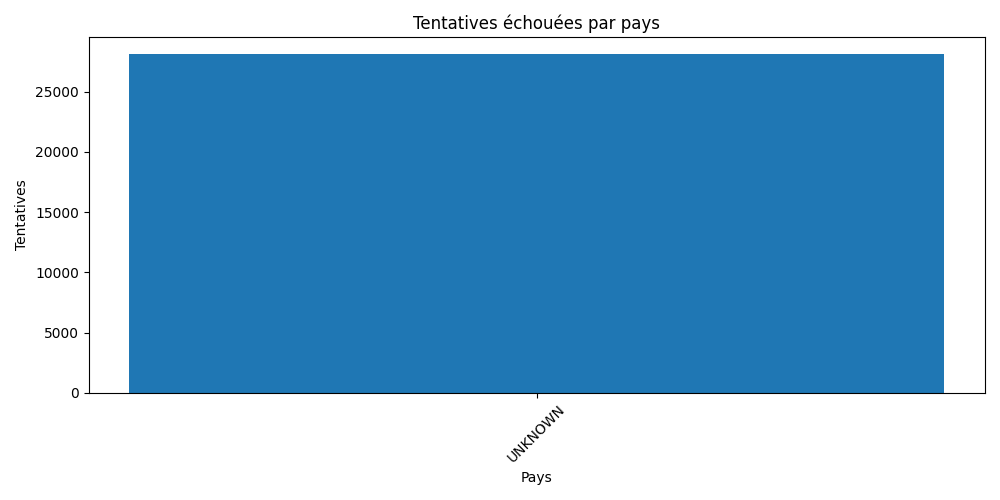
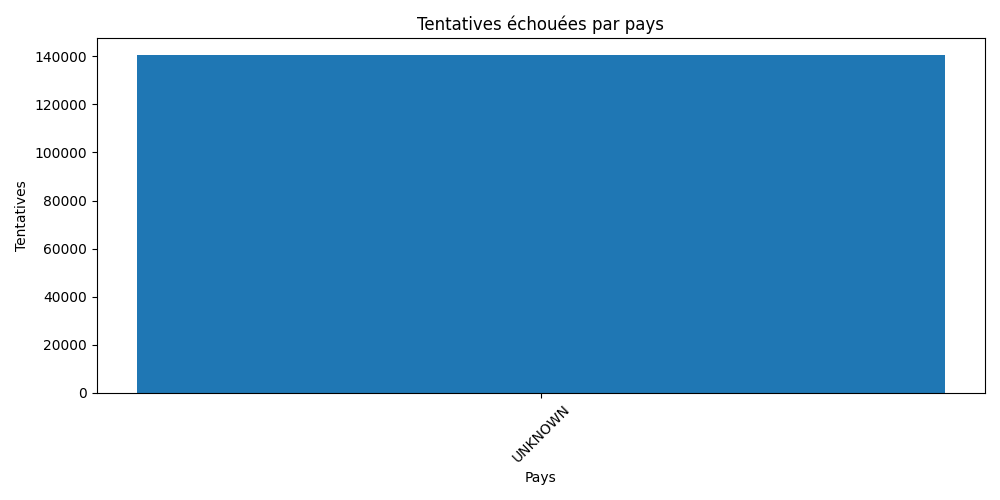
correction dash

diff --git a/dashboard/index.html b/dashboard/index.html
@@ -1,0 +1,65 @@
+<!doctype html>
+<html lang="fr">
+<head>
+  <meta charset="utf-8">
+  <meta name="viewport" content="width=device-width, initial-scale=1">
+  <title>Log Analyser | Dashboard</title>
+  <style>
+    :root { --bg:#f4f7fb; --ink:#172033; --muted:#6b7280; --card:#fff;
+      --blue:#2563eb; --red:#dc2626; --green:#059669; --orange:#ea580c; }
+    * { box-sizing:border-box; }
+    body { margin:0; background:var(--bg); color:var(--ink);
+      font:15px -apple-system,BlinkMacSystemFont,"Segoe UI",sans-serif; }
+    header { background:linear-gradient(120deg,#172554,#2563eb); color:white;
+      padding:34px max(24px,calc((100% - 1180px)/2)); }
+    header h1 { margin:0 0 8px; font-size:30px; }
+    header p { margin:0; opacity:.82; }
+    main { max-width:1180px; margin:28px auto; padding:0 24px; }
+    .cards { display:grid; grid-template-columns:repeat(3,1fr); gap:18px; }
+    .card,.panel { background:var(--card); border-radius:14px; padding:22px;
+      box-shadow:0 5px 18px #17255412; }
+    .card { border-left:5px solid var(--blue); }
+    .card.red { border-color:var(--red); } .card.green { border-color:var(--green); }
+    .card.orange { border-color:var(--orange); }
+    .label { color:var(--muted); font-size:13px; text-transform:uppercase;
+      letter-spacing:.06em; } .value { margin-top:8px; font-size:32px; font-weight:700; }
+    .grid { display:grid; grid-template-columns:repeat(2,1fr); gap:18px; margin-top:18px; }
+    .panel h2 { margin:0 0 15px; font-size:19px; }
+    .chart { width:100%; border-radius:8px; background:#fafafa; }
+    table { width:100%; border-collapse:collapse; }
+    th,td { padding:11px 8px; text-align:left; border-bottom:1px solid #e8edf5; }
+    th:last-child,td:last-child { text-align:right; } th { color:var(--muted); font-size:12px;
+      text-transform:uppercase; } .empty { text-align:center!important; color:var(--muted); }
+    footer { color:var(--muted); text-align:center; padding:20px; font-size:13px; }
+    @media(max-width:760px) { .cards,.grid { grid-template-columns:1fr; } main { padding:0 14px; } }
+  </style>
+</head>
+<body>
+  <header><h1>Log Analyser</h1><p>Dashboard de surveillance des authentifications SSH</p></header>
+  <main>
+    <section class="cards">
+      <div class="card red"><div class="label">Tentatives échouées</div><div class="value">140,660</div></div>
+      <div class="card green"><div class="label">Connexions réussies</div><div class="value">10</div></div>
+      <div class="card orange"><div class="label">Utilisateurs invalides</div><div class="value">31,040</div></div>
+    </section>
+    <section class="grid">
+      <article class="panel"><h2>Échecs par pays</h2>
+        <img class="chart" src="failed_attempts_by_country.png" alt="Échecs par pays">
+        <table><thead><tr><th>Pays</th><th>Nombre</th></tr></thead>
+          <tbody><tr><td>UNKNOWN</td><td>140,660</td></tr></tbody></table>
+      </article>
+      <article class="panel"><h2>Connexions réussies par utilisateur</h2>
+        <img class="chart" src="successful_attempts_by_user.png" alt="Connexions réussies">
+        <table><thead><tr><th>Utilisateur</th><th>Nombre</th></tr></thead>
+          <tbody><tr><td>adminesisa</td><td>10</td></tr></tbody></table>
+      </article>
+      <article class="panel"><h2>Utilisateurs invalides</h2>
+        <img class="chart" src="failed_invalid_users_by_user.png" alt="Utilisateurs invalides">
+        <table><thead><tr><th>Utilisateur</th><th>Nombre</th></tr></thead>
+          <tbody><tr><td>admin</td><td>4,070</td></tr><tr><td>esisa</td><td>1,930</td></tr><tr><td>ubuntu</td><td>1,440</td></tr><tr><td>user</td><td>1,090</td></tr><tr><td>test</td><td>820</td></tr><tr><td>support</td><td>750</td></tr><tr><td>dev</td><td>700</td></tr><tr><td>solana</td><td>680</td></tr><tr><td>orangepi</td><td>600</td></tr><tr><td>ubnt</td><td>410</td></tr><tr><td>sol</td><td>390</td></tr><tr><td>postgres</td><td>380</td></tr><tr><td>AdminGPON</td><td>330</td></tr><tr><td>cloud</td><td>310</td></tr><tr><td>claude</td><td>240</td></tr><tr><td>oracle</td><td>230</td></tr><tr><td>ftpuser</td><td>200</td></tr><tr><td>user1</td><td>200</td></tr><tr><td>debian</td><td>190</td></tr><tr><td>deploy</td><td>190</td></tr><tr><td>git</td><td>150</td></tr><tr><td>guest</td><td>140</td></tr><tr><td>server</td><td>130</td></tr><tr><td>curl</td><td>120</td></tr><tr><td>systemd</td><td>120</td></tr><tr><td>testuser</td><td>120</td></tr><tr><td>solv</td><td>120</td></tr><tr><td>pi</td><td>110</td></tr><tr><td>sysadmin</td><td>110</td></tr><tr><td>bitcoind</td><td>110</td></tr><tr><td>linux</td><td>100</td></tr><tr><td>squid</td><td>100</td></tr><tr><td>administrator</td><td>90</td></tr><tr><td>zabbix</td><td>90</td></tr><tr><td>developer</td><td>90</td></tr><tr><td>odoo</td><td>90</td></tr><tr><td>pakchoi</td><td>80</td></tr><tr><td>steam</td><td>80</td></tr><tr><td>deployer</td><td>80</td></tr><tr><td>dbus-helper</td><td>80</td></tr><tr><td>newuser</td><td>80</td></tr><tr><td>walrus</td><td>70</td></tr><tr><td>tester</td><td>70</td></tr><tr><td>temp</td><td>70</td></tr><tr><td>ec2-user</td><td>60</td></tr><tr><td>runner</td><td>60</td></tr><tr><td>minecraft</td><td>60</td></tr><tr><td>config</td><td>60</td></tr><tr><td>ayjtnzjc</td><td>60</td></tr><tr><td>installer</td><td>60</td></tr><tr><td>demo</td><td>60</td></tr><tr><td>NL5xUDpV2xRa</td><td>60</td></tr><tr><td>a</td><td>60</td></tr><tr><td>system</td><td>60</td></tr><tr><td>es</td><td>60</td></tr><tr><td>zhxnephu</td><td>50</td></tr><tr><td>myuser</td><td>50</td></tr><tr><td>sammy</td><td>50</td></tr><tr><td>test1</td><td>50</td></tr><tr><td>telecomadmin</td><td>50</td></tr><tr><td>web</td><td>50</td></tr><tr><td>smbuser</td><td>50</td></tr><tr><td>alex</td><td>50</td></tr><tr><td>miner</td><td>50</td></tr><tr><td>admin1</td><td>50</td></tr><tr><td>ali</td><td>50</td></tr><tr><td>panel</td><td>50</td></tr><tr><td>trader</td><td>50</td></tr><tr><td>jenkins</td><td>50</td></tr><tr><td>ansible</td><td>50</td></tr><tr><td>root1</td><td>40</td></tr><tr><td>mcserver</td><td>40</td></tr><tr><td>ts3server</td><td>40</td></tr><tr><td>jack</td><td>40</td></tr><tr><td>long</td><td>40</td></tr><tr><td>userroot</td><td>40</td></tr><tr><td>app</td><td>40</td></tr><tr><td>teamspeak</td><td>40</td></tr><tr><td>node</td><td>40</td></tr><tr><td>udev-monitor</td><td>40</td></tr><tr><td>test_user</td><td>40</td></tr><tr><td>work</td><td>40</td></tr><tr><td>gitlab-runner</td><td>40</td></tr><tr><td>vpnuser</td><td>40</td></tr><tr><td>ftptest</td><td>40</td></tr><tr><td>devops</td><td>40</td></tr><tr><td>teste</td><td>40</td></tr><tr><td>student</td><td>40</td></tr><tr><td>james</td><td>40</td></tr><tr><td>jflhi5za</td><td>40</td></tr><tr><td>user01</td><td>40</td></tr><tr><td>valera</td><td>40</td></tr><tr><td>super</td><td>40</td></tr><tr><td>filezilla</td><td>40</td></tr><tr><td>ftp</td><td>40</td></tr><tr><td>noc</td><td>30</td></tr><tr><td>ts3</td><td>30</td></tr><tr><td>sftptest</td><td>30</td></tr><tr><td>bruno</td><td>30</td></tr><tr><td>k8s</td><td>30</td></tr><tr><td>zhangsan</td><td>30</td></tr><tr><td>vpn</td><td>30</td></tr><tr><td>1234</td><td>30</td></tr><tr><td>mahesh</td><td>30</td></tr><tr><td>kamran</td><td>30</td></tr><tr><td>rahul</td><td>30</td></tr><tr><td>crypto</td><td>30</td></tr><tr><td>admin123</td><td>30</td></tr><tr><td>nil</td><td>30</td></tr><tr><td>home</td><td>30</td></tr><tr><td>mk</td><td>30</td></tr><tr><td>tom</td><td>30</td></tr><tr><td>blockchain</td><td>30</td></tr><tr><td>info</td><td>30</td></tr><tr><td>nexus</td><td>30</td></tr><tr><td>magento</td><td>30</td></tr><tr><td>web3</td><td>30</td></tr><tr><td>webadmin</td><td>30</td></tr><tr><td>trading</td><td>30</td></tr><tr><td>test2</td><td>30</td></tr><tr><td>username</td><td>30</td></tr><tr><td>chris</td><td>30</td></tr><tr><td>aaa</td><td>30</td></tr><tr><td>peter</td><td>30</td></tr><tr><td>weblogic</td><td>30</td></tr><tr><td>tan</td><td>30</td></tr><tr><td>roman</td><td>30</td></tr><tr><td>ai</td><td>30</td></tr><tr><td>infra</td><td>30</td></tr><tr><td>jarservice</td><td>30</td></tr><tr><td>frappe</td><td>30</td></tr><tr><td>wireguard</td><td>30</td></tr><tr><td>bitrix</td><td>30</td></tr><tr><td>ba02</td><td>30</td></tr><tr><td>tomcat</td><td>30</td></tr><tr><td>vncuser</td><td>30</td></tr><tr><td>amir</td><td>30</td></tr><tr><td>oscar</td><td>30</td></tr><tr><td>centos</td><td>30</td></tr><tr><td>hafiz</td><td>30</td></tr><tr><td>emo</td><td>30</td></tr><tr><td>kafka</td><td>30</td></tr><tr><td>yang</td><td>30</td></tr><tr><td>wqmarlduiqkmgs</td><td>30</td></tr><tr><td>webdev</td><td>30</td></tr><tr><td>pierre</td><td>30</td></tr><tr><td>gitlab</td><td>20</td></tr><tr><td>marcus</td><td>20</td></tr><tr><td>cisco</td><td>20</td></tr><tr><td>customer</td><td>20</td></tr><tr><td>user0</td><td>20</td></tr><tr><td>jhlee</td><td>20</td></tr><tr><td>satoshi</td><td>20</td></tr><tr><td>...</td><td>20</td></tr><tr><td>devuser</td><td>20</td></tr><tr><td>santana</td><td>20</td></tr><tr><td>modify</td><td>20</td></tr><tr><td>cent</td><td>20</td></tr><tr><td>xh</td><td>20</td></tr><tr><td>richard</td><td>20</td></tr><tr><td>sftpuser</td><td>20</td></tr><tr><td>furukawa</td><td>20</td></tr><tr><td>titu</td><td>20</td></tr><tr><td>bank</td><td>20</td></tr><tr><td>systemd-sync</td><td>20</td></tr><tr><td>dragon</td><td>20</td></tr><tr><td>local</td><td>20</td></tr><tr><td>ba50</td><td>20</td></tr><tr><td>mini</td><td>20</td></tr><tr><td>ahmad</td><td>20</td></tr><tr><td>danny</td><td>20</td></tr><tr><td>testuser1</td><td>20</td></tr><tr><td>ardi</td><td>20</td></tr><tr><td>aroot</td><td>20</td></tr><tr><td>bob</td><td>20</td></tr><tr><td>marina</td><td>20</td></tr><tr><td>mario</td><td>20</td></tr><tr><td>xxx</td><td>20</td></tr><tr><td>vyos</td><td>20</td></tr><tr><td>azureuser</td><td>20</td></tr><tr><td>hb</td><td>20</td></tr><tr><td>wallet</td><td>20</td></tr><tr><td>wiki</td><td>20</td></tr><tr><td>seed</td><td>20</td></tr><tr><td>m</td><td>20</td></tr><tr><td>radio</td><td>20</td></tr><tr><td>vpsuser</td><td>20</td></tr><tr><td>arif</td><td>20</td></tr><tr><td>hugo</td><td>20</td></tr><tr><td>aoki</td><td>20</td></tr><tr><td>tester1</td><td>20</td></tr><tr><td>gts</td><td>20</td></tr><tr><td>mohit</td><td>20</td></tr><tr><td>socks</td><td>20</td></tr><tr><td>david</td><td>20</td></tr><tr><td>test123</td><td>20</td></tr><tr><td>httpd</td><td>20</td></tr><tr><td>hash</td><td>20</td></tr><tr><td>ak</td><td>20</td></tr><tr><td>hoster</td><td>20</td></tr><tr><td>qbtuser</td><td>20</td></tr><tr><td>opc</td><td>20</td></tr><tr><td>veera</td><td>20</td></tr><tr><td>RPM</td><td>20</td></tr><tr><td>sergey</td><td>20</td></tr><tr><td>user5</td><td>20</td></tr><tr><td>ba32</td><td>20</td></tr><tr><td>lwq1</td><td>20</td></tr><tr><td>token</td><td>20</td></tr><tr><td>dell</td><td>20</td></tr><tr><td>astra</td><td>20</td></tr><tr><td>basic</td><td>20</td></tr><tr><td>rsync</td><td>20</td></tr><tr><td>pavel</td><td>20</td></tr><tr><td>dsmdmadm</td><td>20</td></tr><tr><td>django</td><td>20</td></tr><tr><td>erpnext</td><td>20</td></tr><tr><td>4hfrt6</td><td>20</td></tr><tr><td>tempuser</td><td>20</td></tr><tr><td>devtest</td><td>20</td></tr><tr><td>USER</td><td>20</td></tr><tr><td>kevin</td><td>20</td></tr><tr><td>eth</td><td>20</td></tr><tr><td>nas</td><td>20</td></tr><tr><td>arun</td><td>20</td></tr><tr><td>dima</td><td>20</td></tr><tr><td>defi</td><td>20</td></tr><tr><td>slurm</td><td>20</td></tr><tr><td>ivan</td><td>20</td></tr><tr><td>mc</td><td>20</td></tr><tr><td>apache</td><td>20</td></tr><tr><td>term1</td><td>20</td></tr><tr><td>jules</td><td>20</td></tr><tr><td>toro</td><td>20</td></tr><tr><td>alexis</td><td>20</td></tr><tr><td>nginx</td><td>20</td></tr><tr><td>akshay</td><td>20</td></tr><tr><td>telecomroot</td><td>20</td></tr><tr><td>ahmed</td><td>20</td></tr><tr><td>bitcoin</td><td>20</td></tr><tr><td>ba45</td><td>20</td></tr><tr><td>zhihu</td><td>20</td></tr><tr><td>userftp</td><td>20</td></tr><tr><td>abdullah</td><td>20</td></tr><tr><td>amit</td><td>20</td></tr><tr><td>runcloud</td><td>20</td></tr><tr><td>mohsen</td><td>20</td></tr><tr><td>george</td><td>20</td></tr><tr><td>john</td><td>20</td></tr><tr><td>intell</td><td>20</td></tr><tr><td>one</td><td>20</td></tr><tr><td>max</td><td>20</td></tr><tr><td>zeeshan</td><td>20</td></tr><tr><td>usuario1</td><td>20</td></tr><tr><td>readonly</td><td>20</td></tr><tr><td>gpadmin</td><td>20</td></tr><tr><td>intel</td><td>20</td></tr><tr><td>paco</td><td>20</td></tr><tr><td>online</td><td>20</td></tr><tr><td>usuario</td><td>20</td></tr><tr><td>steve</td><td>20</td></tr><tr><td>ironman</td><td>20</td></tr><tr><td>hyh</td><td>20</td></tr><tr><td>nikolay</td><td>20</td></tr><tr><td>clawd</td><td>20</td></tr><tr><td>db2inst1</td><td>20</td></tr><tr><td>aiuser</td><td>20</td></tr><tr><td>validator</td><td>20</td></tr><tr><td>mike</td><td>20</td></tr><tr><td>mas</td><td>20</td></tr><tr><td>andy</td><td>20</td></tr><tr><td>arkserver</td><td>20</td></tr><tr><td>user10</td><td>20</td></tr><tr><td>astro</td><td>20</td></tr><tr><td>solr</td><td>20</td></tr><tr><td>ethereum</td><td>20</td></tr><tr><td>zhang</td><td>20</td></tr><tr><td>erpuser</td><td>20</td></tr><tr><td>User</td><td>20</td></tr><tr><td>operator</td><td>20</td></tr><tr><td>socksuser</td><td>20</td></tr><tr><td>andre</td><td>20</td></tr><tr><td>khan</td><td>20</td></tr><tr><td>vhserver</td><td>20</td></tr><tr><td>public</td><td>20</td></tr><tr><td>vbox</td><td>20</td></tr><tr><td>manoj</td><td>20</td></tr><tr><td>hadoop</td><td>20</td></tr><tr><td>www</td><td>20</td></tr><tr><td>ericadmin</td><td>10</td></tr><tr><td>operador</td><td>10</td></tr><tr><td>kocom</td><td>10</td></tr><tr><td>appuser</td><td>10</td></tr><tr><td>trinity</td><td>10</td></tr><tr><td>wan</td><td>10</td></tr><tr><td>jake</td><td>10</td></tr><tr><td>pqrxi</td><td>10</td></tr><tr><td>foundry</td><td>10</td></tr><tr><td>app1</td><td>10</td></tr><tr><td>websphere</td><td>10</td></tr><tr><td>vanessa</td><td>10</td></tr><tr><td>zte</td><td>10</td></tr><tr><td>usuario2</td><td>10</td></tr><tr><td>marcel</td><td>10</td></tr><tr><td>hari</td><td>10</td></tr><tr><td>leon</td><td>10</td></tr><tr><td>turtle</td><td>10</td></tr><tr><td>ba11</td><td>10</td></tr><tr><td>ecs</td><td>10</td></tr><tr><td>monitor</td><td>10</td></tr><tr><td>hputu</td><td>10</td></tr><tr><td>staging</td><td>10</td></tr><tr><td>olivier</td><td>10</td></tr><tr><td>uftp</td><td>10</td></tr><tr><td>ripple</td><td>10</td></tr><tr><td>dan</td><td>10</td></tr><tr><td>upload</td><td>10</td></tr><tr><td>kwang</td><td>10</td></tr><tr><td>onkar</td><td>10</td></tr><tr><td>karim</td><td>10</td></tr><tr><td>swapna</td><td>10</td></tr><tr><td>steamcmd</td><td>10</td></tr><tr><td>terrariaserver</td><td>10</td></tr><tr><td>rolando</td><td>10</td></tr><tr><td>ruslan</td><td>10</td></tr><tr><td>kali</td><td>10</td></tr><tr><td>jira</td><td>10</td></tr><tr><td>xzpag</td><td>10</td></tr><tr><td>nb</td><td>10</td></tr><tr><td>neo4j</td><td>10</td></tr><tr><td>sistema</td><td>10</td></tr><tr><td>tauro</td><td>10</td></tr><tr><td>tab</td><td>10</td></tr><tr><td>cdac</td><td>10</td></tr><tr><td>Yue_joe@streamyx</td><td>10</td></tr><tr><td>kanban</td><td>10</td></tr><tr><td>admin7</td><td>10</td></tr><tr><td>hh</td><td>10</td></tr><tr><td>caja</td><td>10</td></tr><tr><td>khalil</td><td>10</td></tr><tr><td>andrea</td><td>10</td></tr><tr><td>activemq</td><td>10</td></tr><tr><td>usertest</td><td>10</td></tr><tr><td>oxidized</td><td>10</td></tr><tr><td>gaoyx</td><td>10</td></tr><tr><td>elsearch</td><td>10</td></tr><tr><td>dustin</td><td>10</td></tr><tr><td>ilya</td><td>10</td></tr><tr><td>zhangyj</td><td>10</td></tr><tr><td>lycotu</td><td>10</td></tr><tr><td>ben</td><td>10</td></tr><tr><td>adminer</td><td>10</td></tr><tr><td>patrick</td><td>10</td></tr><tr><td>shabnam</td><td>10</td></tr><tr><td>harish</td><td>10</td></tr><tr><td>shared</td><td>10</td></tr><tr><td>akash</td><td>10</td></tr><tr><td>rajesh</td><td>10</td></tr><tr><td>jinkyu</td><td>10</td></tr><tr><td>mj</td><td>10</td></tr><tr><td>stperez</td><td>10</td></tr><tr><td>jerimiah</td><td>10</td></tr><tr><td>zc</td><td>10</td></tr><tr><td>liferay</td><td>10</td></tr><tr><td>nehat</td><td>10</td></tr><tr><td>sato</td><td>10</td></tr><tr><td>ken</td><td>10</td></tr><tr><td>msf</td><td>10</td></tr><tr><td>ediuser</td><td>10</td></tr><tr><td>anastacia</td><td>10</td></tr><tr><td>javier</td><td>10</td></tr><tr><td>apple</td><td>10</td></tr><tr><td>solar</td><td>10</td></tr><tr><td>ming</td><td>10</td></tr><tr><td>backdoor</td><td>10</td></tr><tr><td>hwkbi</td><td>10</td></tr><tr><td>automation</td><td>10</td></tr><tr><td>email</td><td>10</td></tr><tr><td>radix</td><td>10</td></tr><tr><td>PlcmSpIp</td><td>10</td></tr><tr><td>eren</td><td>10</td></tr><tr><td>headscale</td><td>10</td></tr><tr><td>adam</td><td>10</td></tr><tr><td>testftp</td><td>10</td></tr><tr><td>curntlysignatt</td><td>10</td></tr><tr><td>uwsgi</td><td>10</td></tr><tr><td>allinone</td><td>10</td></tr><tr><td>bryan</td><td>10</td></tr><tr><td>ulimk</td><td>10</td></tr><tr><td>sitecom</td><td>10</td></tr><tr><td>abhi</td><td>10</td></tr><tr><td>aryan</td><td>10</td></tr><tr><td>sora</td><td>10</td></tr><tr><td>guest1</td><td>10</td></tr><tr><td>ba25</td><td>10</td></tr><tr><td>dockeruser</td><td>10</td></tr><tr><td>zhao</td><td>10</td></tr><tr><td>assistant</td><td>10</td></tr><tr><td>tidb</td><td>10</td></tr><tr><td>vintagestory</td><td>10</td></tr><tr><td>sameer</td><td>10</td></tr><tr><td>zihan</td><td>10</td></tr><tr><td>farhan</td><td>10</td></tr><tr><td>mongod</td><td>10</td></tr><tr><td>excel</td><td>10</td></tr><tr><td>fabian</td><td>10</td></tr><tr><td>tickwsuser</td><td>10</td></tr><tr><td>erin</td><td>10</td></tr><tr><td>mcuser</td><td>10</td></tr><tr><td>sachin</td><td>10</td></tr><tr><td>bak</td><td>10</td></tr><tr><td>anya</td><td>10</td></tr><tr><td>lisa</td><td>10</td></tr><tr><td>cam</td><td>10</td></tr><tr><td>timemachine</td><td>10</td></tr><tr><td>titan</td><td>10</td></tr><tr><td>systems</td><td>10</td></tr><tr><td>diego</td><td>10</td></tr><tr><td>openwrt</td><td>10</td></tr><tr><td>felix</td><td>10</td></tr><tr><td>gas</td><td>10</td></tr><tr><td>t128</td><td>10</td></tr><tr><td>scheduler</td><td>10</td></tr><tr><td>rizhi</td><td>10</td></tr><tr><td>serwis</td><td>10</td></tr><tr><td>Ubuntu</td><td>10</td></tr><tr><td>karan</td><td>10</td></tr><tr><td>UBUNTU</td><td>10</td></tr><tr><td>aysha</td><td>10</td></tr><tr><td>bitnami</td><td>10</td></tr><tr><td>oper</td><td>10</td></tr><tr><td>it</td><td>10</td></tr><tr><td>tv</td><td>10</td></tr><tr><td>newadmin</td><td>10</td></tr><tr><td>suzhou</td><td>10</td></tr><tr><td>dmdba</td><td>10</td></tr><tr><td>gabriel</td><td>10</td></tr><tr><td>traccar</td><td>10</td></tr><tr><td>anas</td><td>10</td></tr><tr><td>lc</td><td>10</td></tr><tr><td>seekcy</td><td>10</td></tr><tr><td>hdfs</td><td>10</td></tr><tr><td>reports</td><td>10</td></tr><tr><td>harsh</td><td>10</td></tr><tr><td>cuser</td><td>10</td></tr><tr><td>fabio</td><td>10</td></tr><tr><td>odoo12</td><td>10</td></tr><tr><td>alicia</td><td>10</td></tr><tr><td>shyam</td><td>10</td></tr><tr><td>download</td><td>10</td></tr><tr><td>nokia</td><td>10</td></tr><tr><td>helen</td><td>10</td></tr><tr><td>factorio</td><td>10</td></tr><tr><td>symbat</td><td>10</td></tr><tr><td>liu</td><td>10</td></tr><tr><td>postfixtester</td><td>10</td></tr><tr><td>12345</td><td>10</td></tr><tr><td>edubook</td><td>10</td></tr><tr><td>sroot</td><td>10</td></tr><tr><td>x</td><td>10</td></tr><tr><td>ddd</td><td>10</td></tr><tr><td>weather</td><td>10</td></tr><tr><td>arpwatch</td><td>10</td></tr><tr><td>shalini</td><td>10</td></tr><tr><td>ram</td><td>10</td></tr><tr><td>melsac</td><td>10</td></tr><tr><td>lys</td><td>10</td></tr><tr><td>raul</td><td>10</td></tr><tr><td>devadmin</td><td>10</td></tr><tr><td>hpc</td><td>10</td></tr><tr><td>laura</td><td>10</td></tr><tr><td>yash</td><td>10</td></tr><tr><td>ewscz</td><td>10</td></tr><tr><td>allegra</td><td>10</td></tr><tr><td>filip</td><td>10</td></tr><tr><td>aman</td><td>10</td></tr><tr><td>zoom</td><td>10</td></tr><tr><td>jongbhak</td><td>10</td></tr><tr><td>1</td><td>10</td></tr><tr><td>ti</td><td>10</td></tr><tr><td>jcon0r73</td><td>10</td></tr><tr><td>dai</td><td>10</td></tr><tr><td>apps</td><td>10</td></tr><tr><td>cesar</td><td>10</td></tr><tr><td>csgo</td><td>10</td></tr><tr><td>sandbox</td><td>10</td></tr><tr><td>tsserver</td><td>10</td></tr><tr><td>kollin</td><td>10</td></tr><tr><td>apollo</td><td>10</td></tr><tr><td>jeff</td><td>10</td></tr><tr><td>jean</td><td>10</td></tr><tr><td>ts</td><td>10</td></tr><tr><td>igqdf</td><td>10</td></tr><tr><td>MikroTikSystem</td><td>10</td></tr><tr><td>rf</td><td>10</td></tr><tr><td>aws-user</td><td>10</td></tr><tr><td>sk</td><td>10</td></tr><tr><td>2wire</td><td>10</td></tr><tr><td>pzuser</td><td>10</td></tr><tr><td>traefik</td><td>10</td></tr><tr><td>omar</td><td>10</td></tr><tr><td>dlinares</td><td>10</td></tr><tr><td>api</td><td>10</td></tr><tr><td>stserver</td><td>10</td></tr><tr><td>open</td><td>10</td></tr><tr><td>marco</td><td>10</td></tr><tr><td>clouduser</td><td>10</td></tr><tr><td>anil</td><td>10</td></tr><tr><td>arnieandmarge</td><td>10</td></tr><tr><td>wialon</td><td>10</td></tr><tr><td>nikita</td><td>10</td></tr><tr><td>abhishek</td><td>10</td></tr><tr><td>oo</td><td>10</td></tr><tr><td>es_user</td><td>10</td></tr><tr><td>opsadmin</td><td>10</td></tr><tr><td>elemental</td><td>10</td></tr><tr><td>notes</td><td>10</td></tr><tr><td>dockeradmin</td><td>10</td></tr><tr><td>newusername</td><td>10</td></tr><tr><td>vyatta</td><td>10</td></tr><tr><td>leidyroa</td><td>10</td></tr><tr><td>fjdgu</td><td>10</td></tr><tr><td>west</td><td>10</td></tr><tr><td>anthony</td><td>10</td></tr><tr><td>webuser</td><td>10</td></tr><tr><td>as</td><td>10</td></tr><tr><td>oliver</td><td>10</td></tr><tr><td>code</td><td>10</td></tr><tr><td>oem</td><td>10</td></tr><tr><td>castle</td><td>10</td></tr><tr><td>cds</td><td>10</td></tr><tr><td>bogdan</td><td>10</td></tr><tr><td>going</td><td>10</td></tr><tr><td>ricky</td><td>10</td></tr><tr><td>dark</td><td>10</td></tr><tr><td>jihad</td><td>10</td></tr><tr><td>auto</td><td>10</td></tr><tr><td>wdfkl</td><td>10</td></tr><tr><td>deluge</td><td>10</td></tr><tr><td>fran</td><td>10</td></tr><tr><td>tmp</td><td>10</td></tr><tr><td>ci</td><td>10</td></tr><tr><td>builder</td><td>10</td></tr><tr><td>common</td><td>10</td></tr><tr><td>ttt</td><td>10</td></tr><tr><td>reza</td><td>10</td></tr><tr><td>dms</td><td>10</td></tr><tr><td>hsadmin</td><td>10</td></tr><tr><td>ansadmin</td><td>10</td></tr><tr><td>tfj</td><td>10</td></tr><tr><td>monitoring</td><td>10</td></tr><tr><td>sysadm</td><td>10</td></tr><tr><td>1111</td><td>10</td></tr><tr><td>amy</td><td>10</td></tr><tr><td>mika</td><td>10</td></tr><tr><td>npadmin</td><td>10</td></tr><tr><td>lucas</td><td>10</td></tr><tr><td>eduardo</td><td>10</td></tr><tr><td>monica</td><td>10</td></tr><tr><td>term2</td><td>10</td></tr><tr><td>pipi</td><td>10</td></tr><tr><td>student1</td><td>10</td></tr><tr><td>quinlan</td><td>10</td></tr><tr><td>sarah</td><td>10</td></tr><tr><td>tt</td><td>10</td></tr><tr><td>raspberry</td><td>10</td></tr><tr><td>nisuser</td><td>10</td></tr><tr><td>wwwtest</td><td>10</td></tr><tr><td>alpha</td><td>10</td></tr><tr><td>diradmin</td><td>10</td></tr><tr><td>ossuser</td><td>10</td></tr><tr><td>maha</td><td>10</td></tr><tr><td>edu</td><td>10</td></tr><tr><td>uno85c</td><td>10</td></tr><tr><td>lab</td><td>10</td></tr><tr><td>ba16</td><td>10</td></tr><tr><td>budda</td><td>10</td></tr><tr><td>thomas</td><td>10</td></tr><tr><td>ansibleuser</td><td>10</td></tr><tr><td>sagar</td><td>10</td></tr><tr><td>uno50</td><td>10</td></tr><tr><td>smart</td><td>10</td></tr><tr><td>webmaster</td><td>10</td></tr><tr><td>odoo18</td><td>10</td></tr><tr><td>gf</td><td>10</td></tr><tr><td>pulse</td><td>10</td></tr><tr><td>junyong</td><td>10</td></tr><tr><td>huangwei</td><td>10</td></tr><tr><td>deployuser</td><td>10</td></tr><tr><td>username1</td><td>10</td></tr><tr><td>qazwsxedc</td><td>10</td></tr><tr><td>extern</td><td>10</td></tr><tr><td>fastuser</td><td>10</td></tr><tr><td>tb</td><td>10</td></tr><tr><td>lx</td><td>10</td></tr><tr><td>bang</td><td>10</td></tr><tr><td>love</td><td>10</td></tr><tr><td>satisfactory</td><td>10</td></tr><tr><td>beehive</td><td>10</td></tr><tr><td>jin</td><td>10</td></tr><tr><td>inwi</td><td>10</td></tr><tr><td>mailtest</td><td>10</td></tr><tr><td>ociistst</td><td>10</td></tr><tr><td>elasticsearch</td><td>10</td></tr><tr><td>stetson</td><td>10</td></tr><tr><td>master</td><td>10</td></tr><tr><td>naresh</td><td>10</td></tr><tr><td>rajiv</td><td>10</td></tr><tr><td>leonardo</td><td>10</td></tr><tr><td>seafile</td><td>10</td></tr><tr><td>comcast</td><td>10</td></tr><tr><td>bbb</td><td>10</td></tr><tr><td>openkm</td><td>10</td></tr><tr><td>sg</td><td>10</td></tr><tr><td>jerry</td><td>10</td></tr><tr><td>mehedi</td><td>10</td></tr><tr><td>elena</td><td>10</td></tr><tr><td>owner</td><td>10</td></tr><tr><td>ww</td><td>10</td></tr><tr><td>harry</td><td>10</td></tr><tr><td>Admin</td><td>10</td></tr><tr><td>Operator</td><td>10</td></tr><tr><td>log</td><td>10</td></tr><tr><td>kofll</td><td>10</td></tr><tr><td>dzq</td><td>10</td></tr><tr><td>dstserver</td><td>10</td></tr><tr><td>barry</td><td>10</td></tr><tr><td>ht</td><td>10</td></tr><tr><td>training</td><td>10</td></tr><tr><td>clz</td><td>10</td></tr><tr><td>daniela</td><td>10</td></tr><tr><td>hcicloud</td><td>10</td></tr><tr><td>cheng</td><td>10</td></tr><tr><td>deamon</td><td>10</td></tr><tr><td>free</td><td>10</td></tr><tr><td>s7deji</td><td>10</td></tr><tr><td>myuser1</td><td>10</td></tr><tr><td>yourh</td><td>10</td></tr><tr><td>ash</td><td>10</td></tr><tr><td>markus</td><td>10</td></tr><tr><td>r00t</td><td>10</td></tr><tr><td>jonathan</td><td>10</td></tr><tr><td>sqoop</td><td>10</td></tr><tr><td>scanner</td><td>10</td></tr><tr><td>guanliyuan</td><td>10</td></tr><tr><td>ftp_client</td><td>10</td></tr><tr><td>hwm-master</td><td>10</td></tr><tr><td>frontend</td><td>10</td></tr><tr><td>mustafa</td><td>10</td></tr><tr><td>sandra</td><td>10</td></tr><tr><td>rohit</td><td>10</td></tr><tr><td>drcomadmin</td><td>10</td></tr><tr><td>ba35</td><td>10</td></tr><tr><td>esadmin</td><td>10</td></tr><tr><td>test3</td><td>10</td></tr><tr><td>beeatrice</td><td>10</td></tr><tr><td>ba03</td><td>10</td></tr><tr><td>wanghr19</td><td>10</td></tr><tr><td>fluqueta</td><td>10</td></tr><tr><td>marissa</td><td>10</td></tr><tr><td>tommy</td><td>10</td></tr><tr><td>nodered</td><td>10</td></tr><tr><td>proradis</td><td>10</td></tr><tr><td>ledger</td><td>10</td></tr><tr><td>webserver</td><td>10</td></tr><tr><td>m1</td><td>10</td></tr><tr><td>warnight</td><td>10</td></tr><tr><td>student4</td><td>10</td></tr><tr><td>huang</td><td>10</td></tr><tr><td>eva</td><td>10</td></tr><tr><td>qfzgo</td><td>10</td></tr><tr><td>bot</td><td>10</td></tr><tr><td>lisong</td><td>10</td></tr><tr><td>roger</td><td>10</td></tr><tr><td>u1</td><td>10</td></tr><tr><td>under</td><td>10</td></tr><tr><td>fiscal</td><td>10</td></tr><tr><td>monika</td><td>10</td></tr><tr><td>himanshu</td><td>10</td></tr><tr><td>gitworker</td><td>10</td></tr><tr><td>Cisco</td><td>10</td></tr><tr><td>artur</td><td>10</td></tr><tr><td>clywy</td><td>10</td></tr><tr><td>liang</td><td>10</td></tr><tr><td>hsj</td><td>10</td></tr><tr><td>lln</td><td>10</td></tr><tr><td>dixi</td><td>10</td></tr><tr><td>youssef</td><td>10</td></tr><tr><td>radmin</td><td>10</td></tr><tr><td>azure</td><td>10</td></tr><tr><td>ftp_user</td><td>10</td></tr><tr><td>audio</td><td>10</td></tr><tr><td>mysqluser</td><td>10</td></tr><tr><td>yjq</td><td>10</td></tr><tr><td>rakesh</td><td>10</td></tr><tr><td>mythtv</td><td>10</td></tr><tr><td>asterick</td><td>10</td></tr><tr><td>arul</td><td>10</td></tr><tr><td>mariadb</td><td>10</td></tr><tr><td>omkar</td><td>10</td></tr><tr><td>tata</td><td>10</td></tr><tr><td>eprints</td><td>10</td></tr><tr><td>search</td><td>10</td></tr><tr><td>test-user</td><td>10</td></tr><tr><td>ghost</td><td>10</td></tr><tr><td>chat</td><td>10</td></tr><tr><td>misha</td><td>10</td></tr><tr><td>mota</td><td>10</td></tr><tr><td>Administrator</td><td>10</td></tr><tr><td>luis</td><td>10</td></tr><tr><td>chuantan</td><td>10</td></tr><tr><td>discord</td><td>10</td></tr><tr><td>ljsqw</td><td>10</td></tr><tr><td>mourad</td><td>10</td></tr><tr><td>luke</td><td>10</td></tr><tr><td>prowlarr</td><td>10</td></tr><tr><td>ymc</td><td>10</td></tr><tr><td>adsl</td><td>10</td></tr><tr><td>min</td><td>10</td></tr><tr><td>admin9</td><td>10</td></tr><tr><td>user3</td><td>10</td></tr><tr><td>undertow</td><td>10</td></tr><tr><td>mamad</td><td>10</td></tr><tr><td>ftpuser1</td><td>10</td></tr><tr><td>t</td><td>10</td></tr><tr><td>brengoziscute</td><td>10</td></tr><tr><td>sumef</td><td>10</td></tr><tr><td>smile</td><td>10</td></tr><tr><td>pula</td><td>10</td></tr><tr><td>superroot</td><td>10</td></tr><tr><td>wolli</td><td>10</td></tr><tr><td>bibleexpo</td><td>10</td></tr><tr><td>hou</td><td>10</td></tr><tr><td>ms</td><td>10</td></tr><tr><td>consulta</td><td>10</td></tr><tr><td>jackson</td><td>10</td></tr><tr><td>zjh</td><td>10</td></tr><tr><td>llezt</td><td>10</td></tr><tr><td>patricia</td><td>10</td></tr><tr><td>cod4server</td><td>10</td></tr><tr><td>gao</td><td>10</td></tr><tr><td>media</td><td>10</td></tr><tr><td>fluentd</td><td>10</td></tr><tr><td>ryan</td><td>10</td></tr><tr><td>bill</td><td>10</td></tr><tr><td>czb</td><td>10</td></tr><tr><td>ba10</td><td>10</td></tr><tr><td>user2</td><td>10</td></tr><tr><td>helena</td><td>10</td></tr><tr><td>osboxes</td><td>10</td></tr><tr><td>pam</td><td>10</td></tr><tr><td>kian</td><td>10</td></tr><tr><td>zcx</td><td>10</td></tr><tr><td>henry</td><td>10</td></tr><tr><td>lighthouse</td><td>10</td></tr><tr><td>asdf</td><td>10</td></tr><tr><td>ossadm</td><td>10</td></tr><tr><td>egor</td><td>10</td></tr><tr><td>root2</td><td>10</td></tr><tr><td>sns</td><td>10</td></tr><tr><td>myftp</td><td>10</td></tr><tr><td>DJ</td><td>10</td></tr><tr><td>kodi</td><td>10</td></tr><tr><td>camera</td><td>10</td></tr><tr><td>jose</td><td>10</td></tr><tr><td>sakura</td><td>10</td></tr><tr><td>mostafa</td><td>10</td></tr><tr><td>marvin</td><td>10</td></tr><tr><td>miguel</td><td>10</td></tr><tr><td>script</td><td>10</td></tr><tr><td>pbsworks</td><td>10</td></tr><tr><td>rgejp</td><td>10</td></tr><tr><td>dummy</td><td>10</td></tr><tr><td>wenming</td><td>10</td></tr><tr><td>filmlight</td><td>10</td></tr><tr><td>amupl</td><td>10</td></tr><tr><td>jellyfin</td><td>10</td></tr><tr><td>torrent</td><td>10</td></tr><tr><td>anderson</td><td>10</td></tr><tr><td>rocky</td><td>10</td></tr><tr><td>netcool</td><td>10</td></tr><tr><td>carlos</td><td>10</td></tr><tr><td>lee</td><td>10</td></tr><tr><td>ts3bot</td><td>10</td></tr><tr><td>ventas01</td><td>10</td></tr><tr><td>salim</td><td>10</td></tr><tr><td>tibero</td><td>10</td></tr><tr><td>noreply</td><td>10</td></tr><tr><td>thai</td><td>10</td></tr><tr><td>ashok</td><td>10</td></tr><tr><td>roberto</td><td>10</td></tr><tr><td>family</td><td>10</td></tr><tr><td>arm</td><td>10</td></tr><tr><td>webroot</td><td>10</td></tr><tr><td>diquest</td><td>10</td></tr><tr><td>user-backup</td><td>10</td></tr><tr><td>integral</td><td>10</td></tr><tr><td>qw</td><td>10</td></tr><tr><td>valheim</td><td>10</td></tr><tr><td>salman</td><td>10</td></tr><tr><td>iexcel_qingdao</td><td>10</td></tr><tr><td>dimas</td><td>10</td></tr><tr><td>simon</td><td>10</td></tr><tr><td>uploaduser</td><td>10</td></tr><tr><td>usera</td><td>10</td></tr><tr><td>ul</td><td>10</td></tr><tr><td>pinduoduo</td><td>10</td></tr><tr><td>ZXDSL</td><td>10</td></tr><tr><td>raaj</td><td>10</td></tr><tr><td>virmach</td><td>10</td></tr><tr><td>marko</td><td>10</td></tr><tr><td>hwm</td><td>10</td></tr><tr><td>asdasd</td><td>10</td></tr><tr><td>anna</td><td>10</td></tr><tr><td>song</td><td>10</td></tr><tr><td>csuser</td><td>10</td></tr><tr><td>pepe</td><td>10</td></tr><tr><td>kusanagi</td><td>10</td></tr><tr><td>def</td><td>10</td></tr><tr><td>ashish</td><td>10</td></tr><tr><td>be</td><td>10</td></tr><tr><td>robinson</td><td>10</td></tr><tr><td>pal</td><td>10</td></tr><tr><td>dlxaw</td><td>10</td></tr><tr><td>aa</td><td>10</td></tr><tr><td>pzserver</td><td>10</td></tr><tr><td>boom</td><td>10</td></tr><tr><td>nagiosuser</td><td>10</td></tr><tr><td>anal</td><td>10</td></tr><tr><td>jojo</td><td>10</td></tr><tr><td>factory</td><td>10</td></tr><tr><td>rke</td><td>10</td></tr><tr><td>spring</td><td>10</td></tr><tr><td>xue</td><td>10</td></tr><tr><td>accounting</td><td>10</td></tr><tr><td>testadmin</td><td>10</td></tr><tr><td>malik</td><td>10</td></tr><tr><td>moshe</td><td>10</td></tr><tr><td>stud1</td><td>10</td></tr><tr><td>sara</td><td>10</td></tr><tr><td>dhiraj</td><td>10</td></tr><tr><td>admin2</td><td>10</td></tr><tr><td>ascend</td><td>10</td></tr><tr><td>me</td><td>10</td></tr><tr><td>shrvn6xd</td><td>10</td></tr><tr><td>sshadmin</td><td>10</td></tr><tr><td>berwin</td><td>10</td></tr><tr><td>edge</td><td>10</td></tr><tr><td>test02</td><td>10</td></tr><tr><td>showroom</td><td>10</td></tr><tr><td>btc</td><td>10</td></tr><tr><td>anonimus</td><td>10</td></tr><tr><td>sc</td><td>10</td></tr><tr><td>github</td><td>10</td></tr><tr><td>erwin</td><td>10</td></tr><tr><td>ylj</td><td>10</td></tr><tr><td>armon</td><td>10</td></tr><tr><td>bernard</td><td>10</td></tr><tr><td>ams</td><td>10</td></tr><tr><td>jakob</td><td>10</td></tr><tr><td>gu</td><td>10</td></tr><tr><td>sunil</td><td>10</td></tr><tr><td>flutter</td><td>10</td></tr><tr><td>quentin</td><td>10</td></tr><tr><td>mongouser</td><td>10</td></tr><tr><td>data</td><td>10</td></tr><tr><td>sinusbot</td><td>10</td></tr><tr><td>qwer</td><td>10</td></tr><tr><td>vnc</td><td>10</td></tr><tr><td>administrador</td><td>10</td></tr><tr><td>cassandra</td><td>10</td></tr><tr><td>user001</td><td>10</td></tr><tr><td>vip1</td><td>10</td></tr><tr><td>ba18</td><td>10</td></tr><tr><td>ibrahim</td><td>10</td></tr><tr><td>mm</td><td>10</td></tr><tr><td>abc</td><td>10</td></tr><tr><td>ok</td><td>10</td></tr><tr><td>satya</td><td>10</td></tr><tr><td>xmudg</td><td>10</td></tr><tr><td>mongo</td><td>10</td></tr><tr><td>logviewer</td><td>10</td></tr><tr><td>goat</td><td>10</td></tr><tr><td>gary</td><td>10</td></tr><tr><td>patrol</td><td>10</td></tr><tr><td>agkre</td><td>10</td></tr><tr><td>user8</td><td>10</td></tr><tr><td>allan</td><td>10</td></tr><tr><td>mac</td><td>10</td></tr><tr><td>elias</td><td>10</td></tr><tr><td>wwadmin</td><td>10</td></tr><tr><td>lyl</td><td>10</td></tr><tr><td>adminuser</td><td>10</td></tr><tr><td>arma</td><td>10</td></tr><tr><td>fatemeh</td><td>10</td></tr><tr><td>new</td><td>10</td></tr><tr><td>userb</td><td>10</td></tr><tr><td>iptv</td><td>10</td></tr><tr><td>alice</td><td>10</td></tr><tr><td>facturacion</td><td>10</td></tr><tr><td>mknbm</td><td>10</td></tr><tr><td>silvia</td><td>10</td></tr><tr><td>toto</td><td>10</td></tr><tr><td>testmail</td><td>10</td></tr><tr><td>123</td><td>10</td></tr><tr><td>login</td><td>10</td></tr><tr><td>teaspeak</td><td>10</td></tr><tr><td>esroot</td><td>10</td></tr><tr><td>supervisor</td><td>10</td></tr><tr><td>kamera</td><td>10</td></tr><tr><td>nick</td><td>10</td></tr><tr><td>chenyufei-srt</td><td>10</td></tr><tr><td>superadmin</td><td>10</td></tr><tr><td>samba</td><td>10</td></tr><tr><td>kashan</td><td>10</td></tr><tr><td>kingbase</td><td>10</td></tr><tr><td>bitwarden</td><td>10</td></tr><tr><td>merlin</td><td>10</td></tr><tr><td>osmc</td><td>10</td></tr><tr><td>naveen</td><td>10</td></tr><tr><td>db</td><td>10</td></tr><tr><td>deisy</td><td>10</td></tr><tr><td>mw</td><td>10</td></tr><tr><td>rishabh</td><td>10</td></tr><tr><td>contact</td><td>10</td></tr><tr><td>milan</td><td>10</td></tr><tr><td>apitest</td><td>10</td></tr><tr><td>user6</td><td>10</td></tr><tr><td>ca</td><td>10</td></tr><tr><td>ftproot</td><td>10</td></tr><tr><td>google</td><td>10</td></tr><tr><td>vivek</td><td>10</td></tr><tr><td>client</td><td>10</td></tr><tr><td>vps</td><td>10</td></tr><tr><td>zh</td><td>10</td></tr><tr><td>mtvps1</td><td>10</td></tr><tr><td>mukul</td><td>10</td></tr><tr><td>joe</td><td>10</td></tr><tr><td>janine</td><td>10</td></tr><tr><td>berliner</td><td>10</td></tr><tr><td>connor</td><td>10</td></tr><tr><td>sistemas</td><td>10</td></tr><tr><td>zimbra</td><td>10</td></tr><tr><td>luiz</td><td>10</td></tr><tr><td>testguy</td><td>10</td></tr><tr><td>game</td><td>10</td></tr><tr><td>ksy</td><td>10</td></tr><tr><td>fanslau</td><td>10</td></tr><tr><td>odoo17</td><td>10</td></tr><tr><td>sdtd</td><td>10</td></tr><tr><td>angel</td><td>10</td></tr><tr><td>mytest</td><td>10</td></tr><tr><td>ba30</td><td>10</td></tr><tr><td>ftpuser2</td><td>10</td></tr><tr><td>scan</td><td>10</td></tr><tr><td>redmine</td><td>10</td></tr><tr><td>proxyuser</td><td>10</td></tr><tr><td>taiga</td><td>10</td></tr></tbody></table>
+      </article>
+    </section>
+  </main>
+  <footer>Généré automatiquement par le projet Log Analyser</footer>
+</body>
+</html>

diff --git a/serving/dashboard.py b/serving/dashboard.py
@@ -6,8 +6,10 @@ from tkinter import ttk
 from typing import List, Tuple
 from html import escape
 
+import matplotlib
+
+matplotlib.use("Agg")
 import matplotlib.pyplot as plt
-from matplotlib.backends.backend_tkagg import FigureCanvasTkAgg
 
 LOGGER = logging.getLogger(__name__)
 
@@ -39,19 +41,30 @@ def create_dashboard(output_dir: str = "dashboard") -> None:
         try:
             data = _query(f"SELECT * FROM {view};")
             chart_data[view] = data
-            labels = [row[0] for row in data]
-            values = [row[1] for row in data]
-            figure, axis = plt.subplots(figsize=(10, 5))
-            axis.bar(labels, values)
-            axis.set(title=title, xlabel=x_label, ylabel=y_label)
-            axis.tick_params(axis="x", rotation=45)
-            figure.tight_layout()
-            figure.savefig(os.path.join(output_dir, f"{view}.png"))
-            plt.close(figure)
+            _create_chart(output_dir, view, title, x_label, y_label, data)
         except (OSError, subprocess.CalledProcessError, ValueError):
             LOGGER.exception("Cannot create chart for %s", view)
             raise
     _write_html(output_dir, chart_data)
+
+
+def _create_chart(
+    output_dir: str,
+    view: str,
+    title: str,
+    x_label: str,
+    y_label: str,
+    data: List[Tuple[str, int]],
+) -> None:
+    labels = [row[0] for row in data]
+    values = [row[1] for row in data]
+    figure, axis = plt.subplots(figsize=(10, 5))
+    axis.bar(labels, values, color="#2563eb")
+    axis.set(title=title, xlabel=x_label, ylabel=y_label)
+    axis.tick_params(axis="x", rotation=45)
+    figure.tight_layout()
+    figure.savefig(os.path.join(output_dir, f"{view}.png"))
+    plt.close(figure)
 
 
 def _table_rows(data: List[Tuple[str, int]]) -> str:
@@ -141,75 +154,118 @@ def _write_html(output_dir: str, chart_data: dict) -> None:
 
 
 def launch_dashboard_app() -> None:
-    """Open the dashboard as a native desktop window."""
-    root = tk.Tk()
-    root.title("Log Analyser - Dashboard")
-    root.geometry("1180x760")
-    root.minsize(900, 600)
-    style = ttk.Style(root)
-    style.configure("Title.TLabel", font=("Helvetica", 22, "bold"))
-    style.configure("Kpi.TLabel", font=("Helvetica", 20, "bold"))
-    style.configure("KpiName.TLabel", foreground="#5f6b7a")
-    loading = ttk.Label(
-        root,
-        text="Chargement des statistiques depuis PostgreSQL...",
-        style="Title.TLabel",
-    )
-    loading.pack(expand=True)
-    root.update_idletasks()
+    """Generate and display the dashboard in a native desktop window."""
+    project_dir = os.path.dirname(os.path.dirname(__file__))
+    output_dir = os.path.join(project_dir, "dashboard")
     datasets = [
         ("Échecs par pays", "failed_attempts_by_country"),
         ("Connexions réussies", "successful_attempts_by_user"),
         ("Utilisateurs invalides", "failed_invalid_users_by_user"),
     ]
     try:
+        os.makedirs(output_dir, exist_ok=True)
         values = [(title, _query(f"SELECT * FROM {view};")) for title, view in datasets]
-        loading.destroy()
-        ttk.Label(root, text="Log Analyser", style="Title.TLabel").pack(
-            anchor="w", padx=24, pady=(20, 2)
-        )
-        ttk.Label(
-            root, text="Surveillance des authentifications SSH", style="KpiName.TLabel"
-        ).pack(anchor="w", padx=24, pady=(0, 18))
-        cards = ttk.Frame(root)
-        cards.pack(fill="x", padx=24, pady=(0, 18))
-        for column, (title, rows) in enumerate(values):
-            card = ttk.LabelFrame(cards, text=title)
-            card.grid(row=0, column=column, sticky="ew", padx=5)
-            cards.columnconfigure(column, weight=1)
-            ttk.Label(
-                card, text=f"{sum(count for _, count in rows):,}", style="Kpi.TLabel"
-            ).pack(padx=18, pady=14)
-        notebook = ttk.Notebook(root)
-        notebook.pack(fill="both", expand=True, padx=24, pady=(0, 24))
-        for title, rows in values:
-            tab = ttk.Frame(notebook)
-            notebook.add(tab, text=title)
-            figure, axis = plt.subplots(figsize=(8, 3.8), dpi=100)
-            axis.bar([label for label, _ in rows], [count for _, count in rows], color="#2563eb")
-            axis.set_ylabel("Nombre de tentatives")
-            axis.tick_params(axis="x", rotation=45)
-            figure.tight_layout()
-            canvas = FigureCanvasTkAgg(figure, master=tab)
-            canvas.draw()
-            canvas.get_tk_widget().pack(fill="both", expand=True, padx=12, pady=12)
-            table = ttk.Treeview(tab, columns=("name", "count"), show="headings", height=5)
-            table.heading("name", text="Nom")
-            table.heading("count", text="Nombre")
-            table.column("name", width=260)
-            table.column("count", width=120, anchor="e")
-            for label, count in rows:
-                table.insert("", "end", values=(label, count))
-            table.pack(fill="x", padx=12, pady=(0, 12))
-        root.mainloop()
+        data_by_title = dict(values)
+        for title, (view, x_label, y_label) in zip(
+            ("Tentatives échouées par pays", "Tentatives réussies par utilisateur",
+             "Tentatives avec utilisateur invalide"),
+            (
+                ("failed_attempts_by_country", "Pays", "Tentatives"),
+                ("successful_attempts_by_user", "Utilisateur", "Tentatives"),
+                ("failed_invalid_users_by_user", "Utilisateur", "Tentatives"),
+            ),
+        ):
+            data = data_by_title[title]
+            _create_chart(output_dir, view, title, x_label, y_label, data)
+        _show_native_dashboard(values, output_dir)
     except (OSError, subprocess.CalledProcessError, ValueError):
         LOGGER.exception("Cannot open dashboard application")
-        loading.configure(
-            text=(
-                "Impossible de charger le dashboard.\n\n"
-                "Vérifiez que PostgreSQL est démarré, que la base "
-                "'log_analyser' existe et que storage/schema.sql a été exécuté."
-            ),
-            style="KpiName.TLabel",
+        raise
+
+
+def _show_native_dashboard(
+    values: List[Tuple[str, List[Tuple[str, int]]]], output_dir: str
+) -> None:
+    root = tk.Tk()
+    root.title("Log Analyser - Dashboard")
+    root.geometry("1180x760")
+    root.minsize(900, 600)
+    root.configure(background="#262833")
+    style = ttk.Style(root)
+    style.theme_use("clam")
+    style.configure("TFrame", background="#262833")
+    style.configure("TLabel", background="#262833", foreground="#f4f4f5")
+    style.configure(
+        "Title.TLabel", background="#262833", foreground="#ffffff",
+        font=("Helvetica", 22, "bold")
+    )
+    style.configure(
+        "Kpi.TLabel", background="#ffffff", foreground="#172033",
+        font=("Helvetica", 20, "bold")
+    )
+    style.configure("KpiName.TLabel", background="#262833", foreground="#d1d5db")
+    style.configure("TLabelframe", background="#ffffff", bordercolor="#9ca3af")
+    style.configure("TLabelframe.Label", background="#ffffff", foreground="#172033")
+    style.configure("TNotebook", background="#262833", borderwidth=0)
+    style.configure(
+        "TNotebook.Tab", background="#d1d5db", foreground="#172033",
+        padding=(12, 6)
+    )
+    style.map(
+        "TNotebook.Tab",
+        background=[("selected", "#ffffff")],
+        foreground=[("selected", "#172033")],
+    )
+    style.configure(
+        "Treeview", background="#ffffff", fieldbackground="#ffffff",
+        foreground="#172033", rowheight=24
+    )
+    style.configure(
+        "Treeview.Heading", background="#e5e7eb", foreground="#172033"
+    )
+
+    ttk.Label(root, text="Log Analyser", style="Title.TLabel").pack(
+        anchor="w", padx=24, pady=(20, 2)
+    )
+    ttk.Label(
+        root, text="Surveillance des authentifications SSH",
+        style="KpiName.TLabel"
+    ).pack(anchor="w", padx=24, pady=(0, 18))
+    cards = ttk.Frame(root)
+    cards.pack(fill="x", padx=24, pady=(0, 18))
+    for column, (title, rows) in enumerate(values):
+        card = ttk.LabelFrame(cards, text=title)
+        card.grid(row=0, column=column, sticky="ew", padx=5)
+        cards.columnconfigure(column, weight=1)
+        ttk.Label(
+            card, text=f"{sum(count for _, count in rows):,}",
+            style="Kpi.TLabel"
+        ).pack(padx=18, pady=14)
+
+    notebook = ttk.Notebook(root)
+    notebook.pack(fill="both", expand=True, padx=24, pady=(0, 24))
+    chart_views = (
+        "failed_attempts_by_country",
+        "successful_attempts_by_user",
+        "failed_invalid_users_by_user",
+    )
+    for (title, rows), view in zip(values, chart_views):
+        tab = ttk.Frame(notebook)
+        notebook.add(tab, text=title)
+        image = tk.PhotoImage(file=os.path.join(output_dir, f"{view}.png"))
+        image = image.subsample(max(1, image.width() // 900))
+        tab.chart_image = image
+        ttk.Label(tab, image=image, background="#ffffff").pack(
+            fill="both", expand=True, padx=12, pady=12
         )
-        root.update_idletasks()
+        table = ttk.Treeview(
+            tab, columns=("name", "count"), show="headings", height=5
+        )
+        table.heading("name", text="Nom")
+        table.heading("count", text="Nombre")
+        table.column("name", width=260)
+        table.column("count", width=120, anchor="e")
+        for label, count in rows:
+            table.insert("", "end", values=(label, count))
+        table.pack(fill="x", padx=12, pady=(0, 12))
+    root.mainloop()
